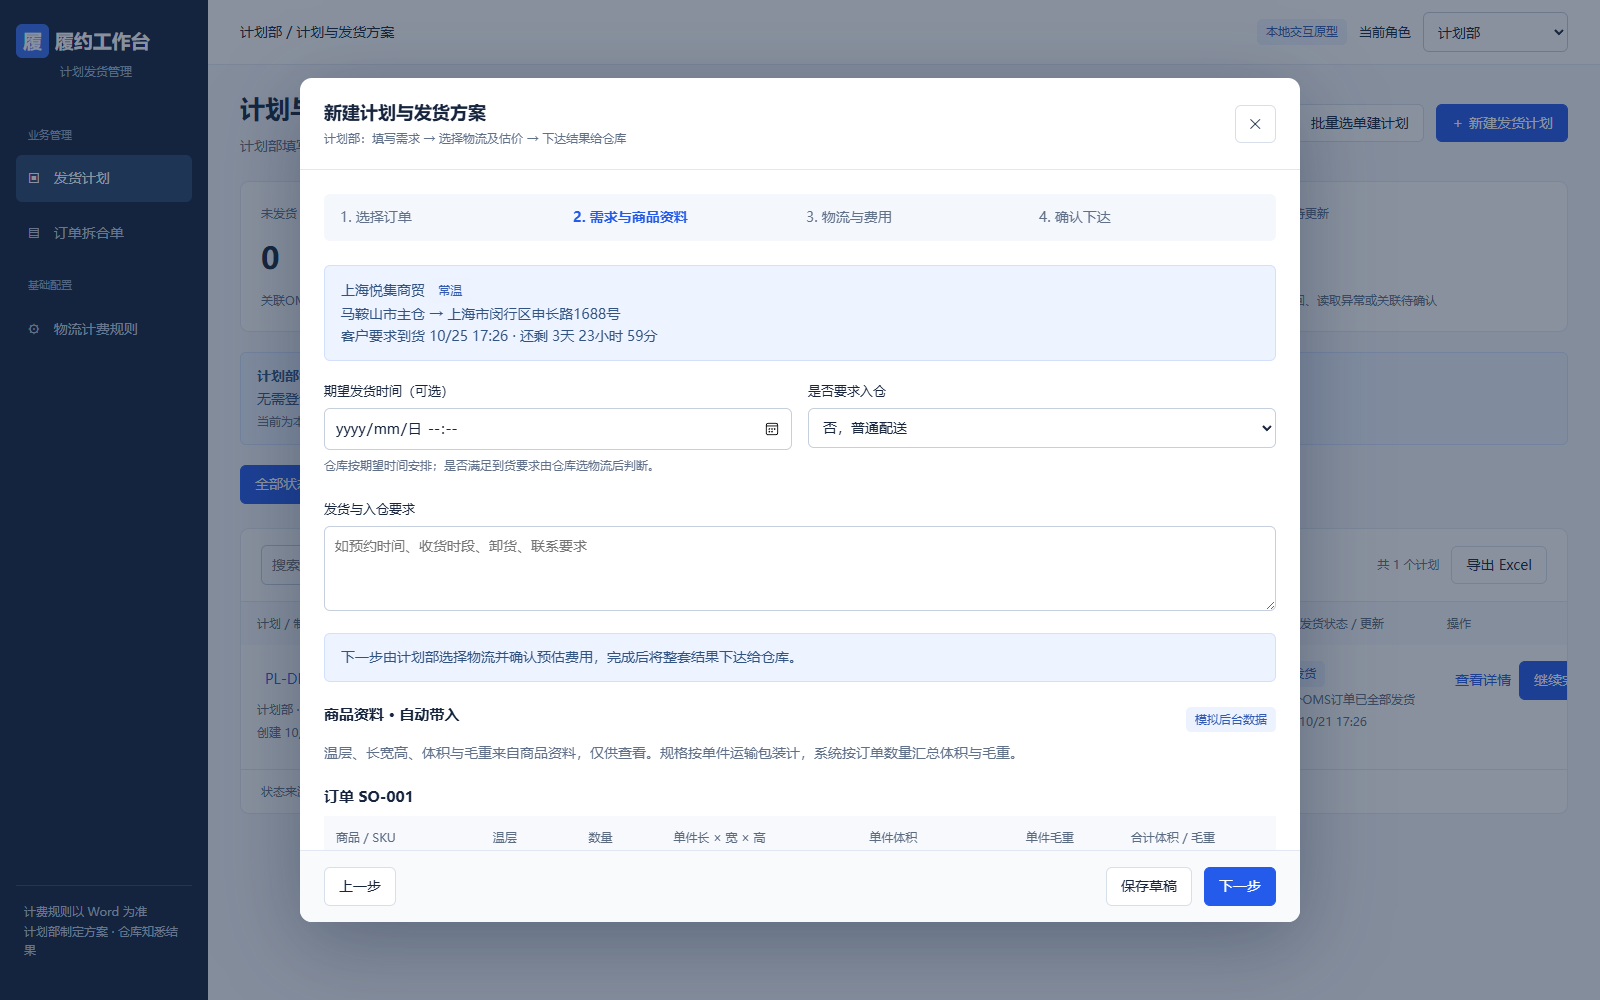
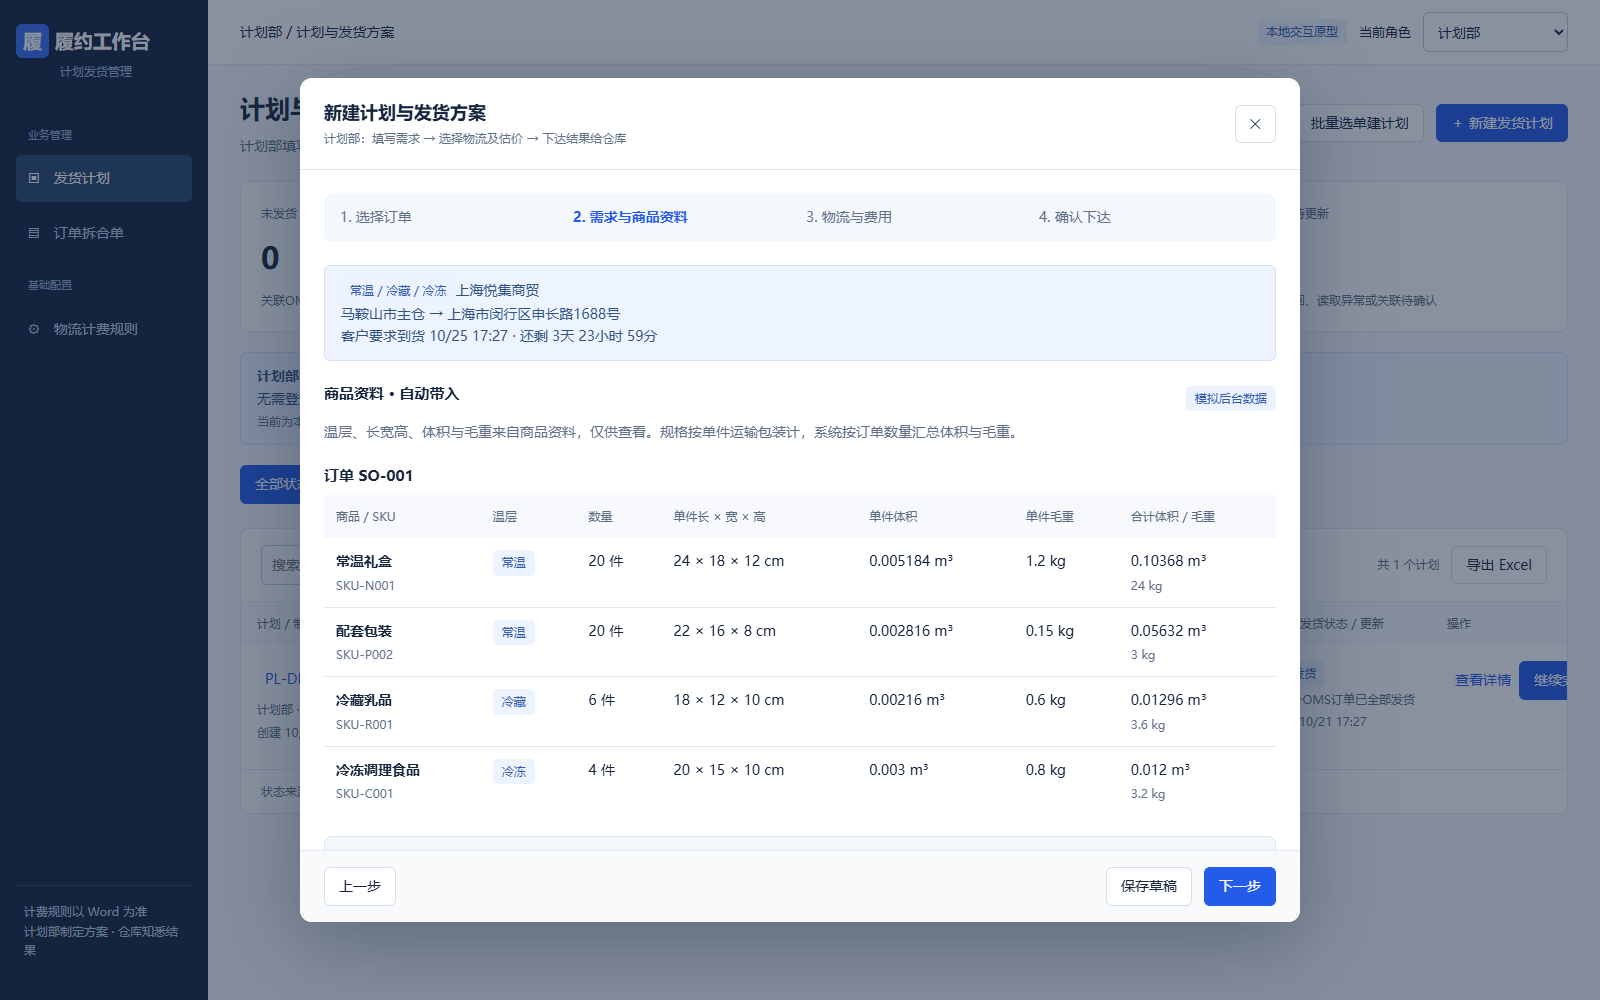
Auto sync 2026-10-21 17:27:30

diff --git a/09-设计与原型/计划发货管理-交互原型.html b/09-设计与原型/计划发货管理-交互原型.html
@@ -370,7 +370,7 @@ comboPackageKey=function(p,g){return JSON.stringify([backendComboPackageKey(p,g)
 changeItemTemperature=function(){};
 freightPackage=function(){};
 const backendWizard=showWizard;
-showWizard=function(){if(wizard?.mode==='plan'&&[2,3,4].includes(wizard.step))syncFreightGroups();backendWizard();if(!planner()||wizard?.mode!=='plan'||!$('modal').open)return;if(wizard.step===1){$('modalBody').querySelectorAll('label.quote').forEach(label=>{let id=label.querySelector('input')?.getAttribute('onchange')?.match(/chooseOrder\('([^']+)'/)?.[1],o=state.orders.find(o=>o.id===id);if(!o)return;let info=label.querySelector('.info');info?.querySelectorAll('.tag').forEach(t=>t.remove());if(info){let s=document.createElement('span');s.innerHTML=badge([...new Set(o.items.map((_,i)=>TEMP_NAMES[itemTemp(o,i)]))].join(' / '));info.append(s)}})}if(wizard.step===2){let h=[...$('modalBody').querySelectorAll('h3')].find(h=>h.textContent==='订单内的商品温层与包裹');if(h){let section=h.closest('.section');section.innerHTML='<div class="between"><h3>商品资料 · 自动带入</h3>'+badge('模拟后台数据')+'</div><p class="muted">温层、长宽高、体积与毛重来自商品资料，仅供查看。规格按单件运输包装计，系统按订单数量汇总体积与毛重。</p>'+wizard.orderIds.map(id=>backendProductTable(wizard,id)).join('')+'<div class="backend-product-totals">'+wizard.freightGroups.map(g=>`<div><b>${esc(g.orderId)} · ${TEMP_NAMES[g.temp]||'待补齐'}</b><span>${g.boxes} 件 · 毛重 ${Number.isFinite(g.totalGross)?g.totalGross+' kg':'待补齐'} · 体积 ${volumeText(g.totalVolumeCm3)}</span></div>`).join('')+'</div>'}let steps=$('modalBody').querySelectorAll('.steps span');if(steps[1])steps[1].textContent='2. 需求与商品资料'}if(wizard.step===3){let steps=$('modalBody').querySelectorAll('.steps span');if(steps[1])steps[1].textContent='2. 需求与商品资料'}};
+showWizard=function(){if(wizard?.mode==='plan'&&[2,3,4].includes(wizard.step))syncFreightGroups();backendWizard();if(!planner()||wizard?.mode!=='plan'||!$('modal').open)return;if(wizard.step===1){$('modalBody').querySelectorAll('label.quote').forEach(label=>{let id=label.querySelector('input')?.getAttribute('onchange')?.match(/chooseOrder\('([^']+)'/)?.[1],o=state.orders.find(o=>o.id===id);if(!o)return;let info=label.querySelector('.info');info?.querySelectorAll('.tag').forEach(t=>t.remove());if(info){let s=document.createElement('span');s.innerHTML=badge([...new Set(o.items.map((_,i)=>TEMP_NAMES[itemTemp(o,i)]))].join(' / '));info.append(s)}})}if(wizard.step===2){let topNotice=$('modalBody').querySelector('.notice');if(topNotice){topNotice.querySelectorAll('.tag').forEach(t=>t.remove());let tags=document.createElement('span');tags.innerHTML=badge(planTemperatureLabel(wizard));topNotice.prepend(tags)}let shippingHelp=$('plannedShip')?.nextElementSibling;if(shippingHelp?.tagName==='SMALL')shippingHelp.textContent='系统结合期望发货时间、运输时效和缓冲时间判断能否按时到货。';let h=[...$('modalBody').querySelectorAll('h3')].find(h=>h.textContent==='订单内的商品温层与包裹');if(h){let section=h.closest('.section');section.innerHTML='<div class="between"><h3>商品资料 · 自动带入</h3>'+badge('模拟后台数据')+'</div><p class="muted">温层、长宽高、体积与毛重来自商品资料，仅供查看。规格按单件运输包装计，系统按订单数量汇总体积与毛重。</p>'+wizard.orderIds.map(id=>backendProductTable(wizard,id)).join('')+'<div class="backend-product-totals">'+wizard.freightGroups.map(g=>`<div><b>${esc(g.orderId)} · ${TEMP_NAMES[g.temp]||'待补齐'}</b><span>${g.boxes} 件 · 毛重 ${Number.isFinite(g.totalGross)?g.totalGross+' kg':'待补齐'} · 体积 ${volumeText(g.totalVolumeCm3)}</span></div>`).join('')+'</div>'}let productSection=[...$('modalBody').querySelectorAll('h3')].find(h=>h.textContent==='商品资料 · 自动带入')?.closest('.section');if(productSection&&topNotice)topNotice.after(productSection);let steps=$('modalBody').querySelectorAll('.steps span');if(steps[1])steps[1].textContent='2. 需求与商品资料'}if(wizard.step===3){let steps=$('modalBody').querySelectorAll('.steps span');if(steps[1])steps[1].textContent='2. 需求与商品资料'}};
 const backendValidStep=validStep;
 validStep=function(){if(wizard?.mode==='plan'&&wizard.step>=2){syncFreightGroups();let bad=wizard.freightGroups.find(g=>!g.productDataValid||g.temp==='unknown');if(bad){$('error').textContent=bad.orderId+'：商品温层、长宽高或毛重资料缺失，请在后台商品资料补齐后重试。';return false}if(wizard.step===2){let err='';if(wizard.warehouse&&!wizard.warehouseName?.trim())err='请填写入仓仓库名称。';else if(wizard.plannedShip&&new Date(wizard.plannedShip).getTime()>wizard.due)err='期望发货时间不能晚于客户要求到货时间。';if(err){$('error').textContent=err;return false}return true}}return backendValidStep()};
 const backendPersistPlan=persistPlan;

diff --git a/outputs/logistics-review/prototype.js b/outputs/logistics-review/prototype.js
@@ -361,7 +361,7 @@ comboPackageKey=function(p,g){return JSON.stringify([backendComboPackageKey(p,g)
 changeItemTemperature=function(){};
 freightPackage=function(){};
 const backendWizard=showWizard;
-showWizard=function(){if(wizard?.mode==='plan'&&[2,3,4].includes(wizard.step))syncFreightGroups();backendWizard();if(!planner()||wizard?.mode!=='plan'||!$('modal').open)return;if(wizard.step===1){$('modalBody').querySelectorAll('label.quote').forEach(label=>{let id=label.querySelector('input')?.getAttribute('onchange')?.match(/chooseOrder\('([^']+)'/)?.[1],o=state.orders.find(o=>o.id===id);if(!o)return;let info=label.querySelector('.info');info?.querySelectorAll('.tag').forEach(t=>t.remove());if(info){let s=document.createElement('span');s.innerHTML=badge([...new Set(o.items.map((_,i)=>TEMP_NAMES[itemTemp(o,i)]))].join(' / '));info.append(s)}})}if(wizard.step===2){let h=[...$('modalBody').querySelectorAll('h3')].find(h=>h.textContent==='订单内的商品温层与包裹');if(h){let section=h.closest('.section');section.innerHTML='<div class="between"><h3>商品资料 · 自动带入</h3>'+badge('模拟后台数据')+'</div><p class="muted">温层、长宽高、体积与毛重来自商品资料，仅供查看。规格按单件运输包装计，系统按订单数量汇总体积与毛重。</p>'+wizard.orderIds.map(id=>backendProductTable(wizard,id)).join('')+'<div class="backend-product-totals">'+wizard.freightGroups.map(g=>`<div><b>${esc(g.orderId)} · ${TEMP_NAMES[g.temp]||'待补齐'}</b><span>${g.boxes} 件 · 毛重 ${Number.isFinite(g.totalGross)?g.totalGross+' kg':'待补齐'} · 体积 ${volumeText(g.totalVolumeCm3)}</span></div>`).join('')+'</div>'}let steps=$('modalBody').querySelectorAll('.steps span');if(steps[1])steps[1].textContent='2. 需求与商品资料'}if(wizard.step===3){let steps=$('modalBody').querySelectorAll('.steps span');if(steps[1])steps[1].textContent='2. 需求与商品资料'}};
+showWizard=function(){if(wizard?.mode==='plan'&&[2,3,4].includes(wizard.step))syncFreightGroups();backendWizard();if(!planner()||wizard?.mode!=='plan'||!$('modal').open)return;if(wizard.step===1){$('modalBody').querySelectorAll('label.quote').forEach(label=>{let id=label.querySelector('input')?.getAttribute('onchange')?.match(/chooseOrder\('([^']+)'/)?.[1],o=state.orders.find(o=>o.id===id);if(!o)return;let info=label.querySelector('.info');info?.querySelectorAll('.tag').forEach(t=>t.remove());if(info){let s=document.createElement('span');s.innerHTML=badge([...new Set(o.items.map((_,i)=>TEMP_NAMES[itemTemp(o,i)]))].join(' / '));info.append(s)}})}if(wizard.step===2){let topNotice=$('modalBody').querySelector('.notice');if(topNotice){topNotice.querySelectorAll('.tag').forEach(t=>t.remove());let tags=document.createElement('span');tags.innerHTML=badge(planTemperatureLabel(wizard));topNotice.prepend(tags)}let shippingHelp=$('plannedShip')?.nextElementSibling;if(shippingHelp?.tagName==='SMALL')shippingHelp.textContent='系统结合期望发货时间、运输时效和缓冲时间判断能否按时到货。';let h=[...$('modalBody').querySelectorAll('h3')].find(h=>h.textContent==='订单内的商品温层与包裹');if(h){let section=h.closest('.section');section.innerHTML='<div class="between"><h3>商品资料 · 自动带入</h3>'+badge('模拟后台数据')+'</div><p class="muted">温层、长宽高、体积与毛重来自商品资料，仅供查看。规格按单件运输包装计，系统按订单数量汇总体积与毛重。</p>'+wizard.orderIds.map(id=>backendProductTable(wizard,id)).join('')+'<div class="backend-product-totals">'+wizard.freightGroups.map(g=>`<div><b>${esc(g.orderId)} · ${TEMP_NAMES[g.temp]||'待补齐'}</b><span>${g.boxes} 件 · 毛重 ${Number.isFinite(g.totalGross)?g.totalGross+' kg':'待补齐'} · 体积 ${volumeText(g.totalVolumeCm3)}</span></div>`).join('')+'</div>'}let productSection=[...$('modalBody').querySelectorAll('h3')].find(h=>h.textContent==='商品资料 · 自动带入')?.closest('.section');if(productSection&&topNotice)topNotice.after(productSection);let steps=$('modalBody').querySelectorAll('.steps span');if(steps[1])steps[1].textContent='2. 需求与商品资料'}if(wizard.step===3){let steps=$('modalBody').querySelectorAll('.steps span');if(steps[1])steps[1].textContent='2. 需求与商品资料'}};
 const backendValidStep=validStep;
 validStep=function(){if(wizard?.mode==='plan'&&wizard.step>=2){syncFreightGroups();let bad=wizard.freightGroups.find(g=>!g.productDataValid||g.temp==='unknown');if(bad){$('error').textContent=bad.orderId+'：商品温层、长宽高或毛重资料缺失，请在后台商品资料补齐后重试。';return false}if(wizard.step===2){let err='';if(wizard.warehouse&&!wizard.warehouseName?.trim())err='请填写入仓仓库名称。';else if(wizard.plannedShip&&new Date(wizard.plannedShip).getTime()>wizard.due)err='期望发货时间不能晚于客户要求到货时间。';if(err){$('error').textContent=err;return false}return true}}return backendValidStep()};
 const backendPersistPlan=persistPlan;

diff --git a/outputs/logistics-review/backend-product-data.js b/outputs/logistics-review/backend-product-data.js
@@ -22,7 +22,7 @@ comboPackageKey=function(p,g){return JSON.stringify([backendComboPackageKey(p,g)
 changeItemTemperature=function(){};
 freightPackage=function(){};
 const backendWizard=showWizard;
-showWizard=function(){if(wizard?.mode==='plan'&&[2,3,4].includes(wizard.step))syncFreightGroups();backendWizard();if(!planner()||wizard?.mode!=='plan'||!$('modal').open)return;if(wizard.step===1){$('modalBody').querySelectorAll('label.quote').forEach(label=>{let id=label.querySelector('input')?.getAttribute('onchange')?.match(/chooseOrder\('([^']+)'/)?.[1],o=state.orders.find(o=>o.id===id);if(!o)return;let info=label.querySelector('.info');info?.querySelectorAll('.tag').forEach(t=>t.remove());if(info){let s=document.createElement('span');s.innerHTML=badge([...new Set(o.items.map((_,i)=>TEMP_NAMES[itemTemp(o,i)]))].join(' / '));info.append(s)}})}if(wizard.step===2){let h=[...$('modalBody').querySelectorAll('h3')].find(h=>h.textContent==='订单内的商品温层与包裹');if(h){let section=h.closest('.section');section.innerHTML='<div class="between"><h3>商品资料 · 自动带入</h3>'+badge('模拟后台数据')+'</div><p class="muted">温层、长宽高、体积与毛重来自商品资料，仅供查看。规格按单件运输包装计，系统按订单数量汇总体积与毛重。</p>'+wizard.orderIds.map(id=>backendProductTable(wizard,id)).join('')+'<div class="backend-product-totals">'+wizard.freightGroups.map(g=>`<div><b>${esc(g.orderId)} · ${TEMP_NAMES[g.temp]||'待补齐'}</b><span>${g.boxes} 件 · 毛重 ${Number.isFinite(g.totalGross)?g.totalGross+' kg':'待补齐'} · 体积 ${volumeText(g.totalVolumeCm3)}</span></div>`).join('')+'</div>'}let steps=$('modalBody').querySelectorAll('.steps span');if(steps[1])steps[1].textContent='2. 需求与商品资料'}if(wizard.step===3){let steps=$('modalBody').querySelectorAll('.steps span');if(steps[1])steps[1].textContent='2. 需求与商品资料'}};
+showWizard=function(){if(wizard?.mode==='plan'&&[2,3,4].includes(wizard.step))syncFreightGroups();backendWizard();if(!planner()||wizard?.mode!=='plan'||!$('modal').open)return;if(wizard.step===1){$('modalBody').querySelectorAll('label.quote').forEach(label=>{let id=label.querySelector('input')?.getAttribute('onchange')?.match(/chooseOrder\('([^']+)'/)?.[1],o=state.orders.find(o=>o.id===id);if(!o)return;let info=label.querySelector('.info');info?.querySelectorAll('.tag').forEach(t=>t.remove());if(info){let s=document.createElement('span');s.innerHTML=badge([...new Set(o.items.map((_,i)=>TEMP_NAMES[itemTemp(o,i)]))].join(' / '));info.append(s)}})}if(wizard.step===2){let topNotice=$('modalBody').querySelector('.notice');if(topNotice){topNotice.querySelectorAll('.tag').forEach(t=>t.remove());let tags=document.createElement('span');tags.innerHTML=badge(planTemperatureLabel(wizard));topNotice.prepend(tags)}let shippingHelp=$('plannedShip')?.nextElementSibling;if(shippingHelp?.tagName==='SMALL')shippingHelp.textContent='系统结合期望发货时间、运输时效和缓冲时间判断能否按时到货。';let h=[...$('modalBody').querySelectorAll('h3')].find(h=>h.textContent==='订单内的商品温层与包裹');if(h){let section=h.closest('.section');section.innerHTML='<div class="between"><h3>商品资料 · 自动带入</h3>'+badge('模拟后台数据')+'</div><p class="muted">温层、长宽高、体积与毛重来自商品资料，仅供查看。规格按单件运输包装计，系统按订单数量汇总体积与毛重。</p>'+wizard.orderIds.map(id=>backendProductTable(wizard,id)).join('')+'<div class="backend-product-totals">'+wizard.freightGroups.map(g=>`<div><b>${esc(g.orderId)} · ${TEMP_NAMES[g.temp]||'待补齐'}</b><span>${g.boxes} 件 · 毛重 ${Number.isFinite(g.totalGross)?g.totalGross+' kg':'待补齐'} · 体积 ${volumeText(g.totalVolumeCm3)}</span></div>`).join('')+'</div>'}let productSection=[...$('modalBody').querySelectorAll('h3')].find(h=>h.textContent==='商品资料 · 自动带入')?.closest('.section');if(productSection&&topNotice)topNotice.after(productSection);let steps=$('modalBody').querySelectorAll('.steps span');if(steps[1])steps[1].textContent='2. 需求与商品资料'}if(wizard.step===3){let steps=$('modalBody').querySelectorAll('.steps span');if(steps[1])steps[1].textContent='2. 需求与商品资料'}};
 const backendValidStep=validStep;
 validStep=function(){if(wizard?.mode==='plan'&&wizard.step>=2){syncFreightGroups();let bad=wizard.freightGroups.find(g=>!g.productDataValid||g.temp==='unknown');if(bad){$('error').textContent=bad.orderId+'：商品温层、长宽高或毛重资料缺失，请在后台商品资料补齐后重试。';return false}if(wizard.step===2){let err='';if(wizard.warehouse&&!wizard.warehouseName?.trim())err='请填写入仓仓库名称。';else if(wizard.plannedShip&&new Date(wizard.plannedShip).getTime()>wizard.due)err='期望发货时间不能晚于客户要求到货时间。';if(err){$('error').textContent=err;return false}return true}}return backendValidStep()};
 const backendPersistPlan=persistPlan;
